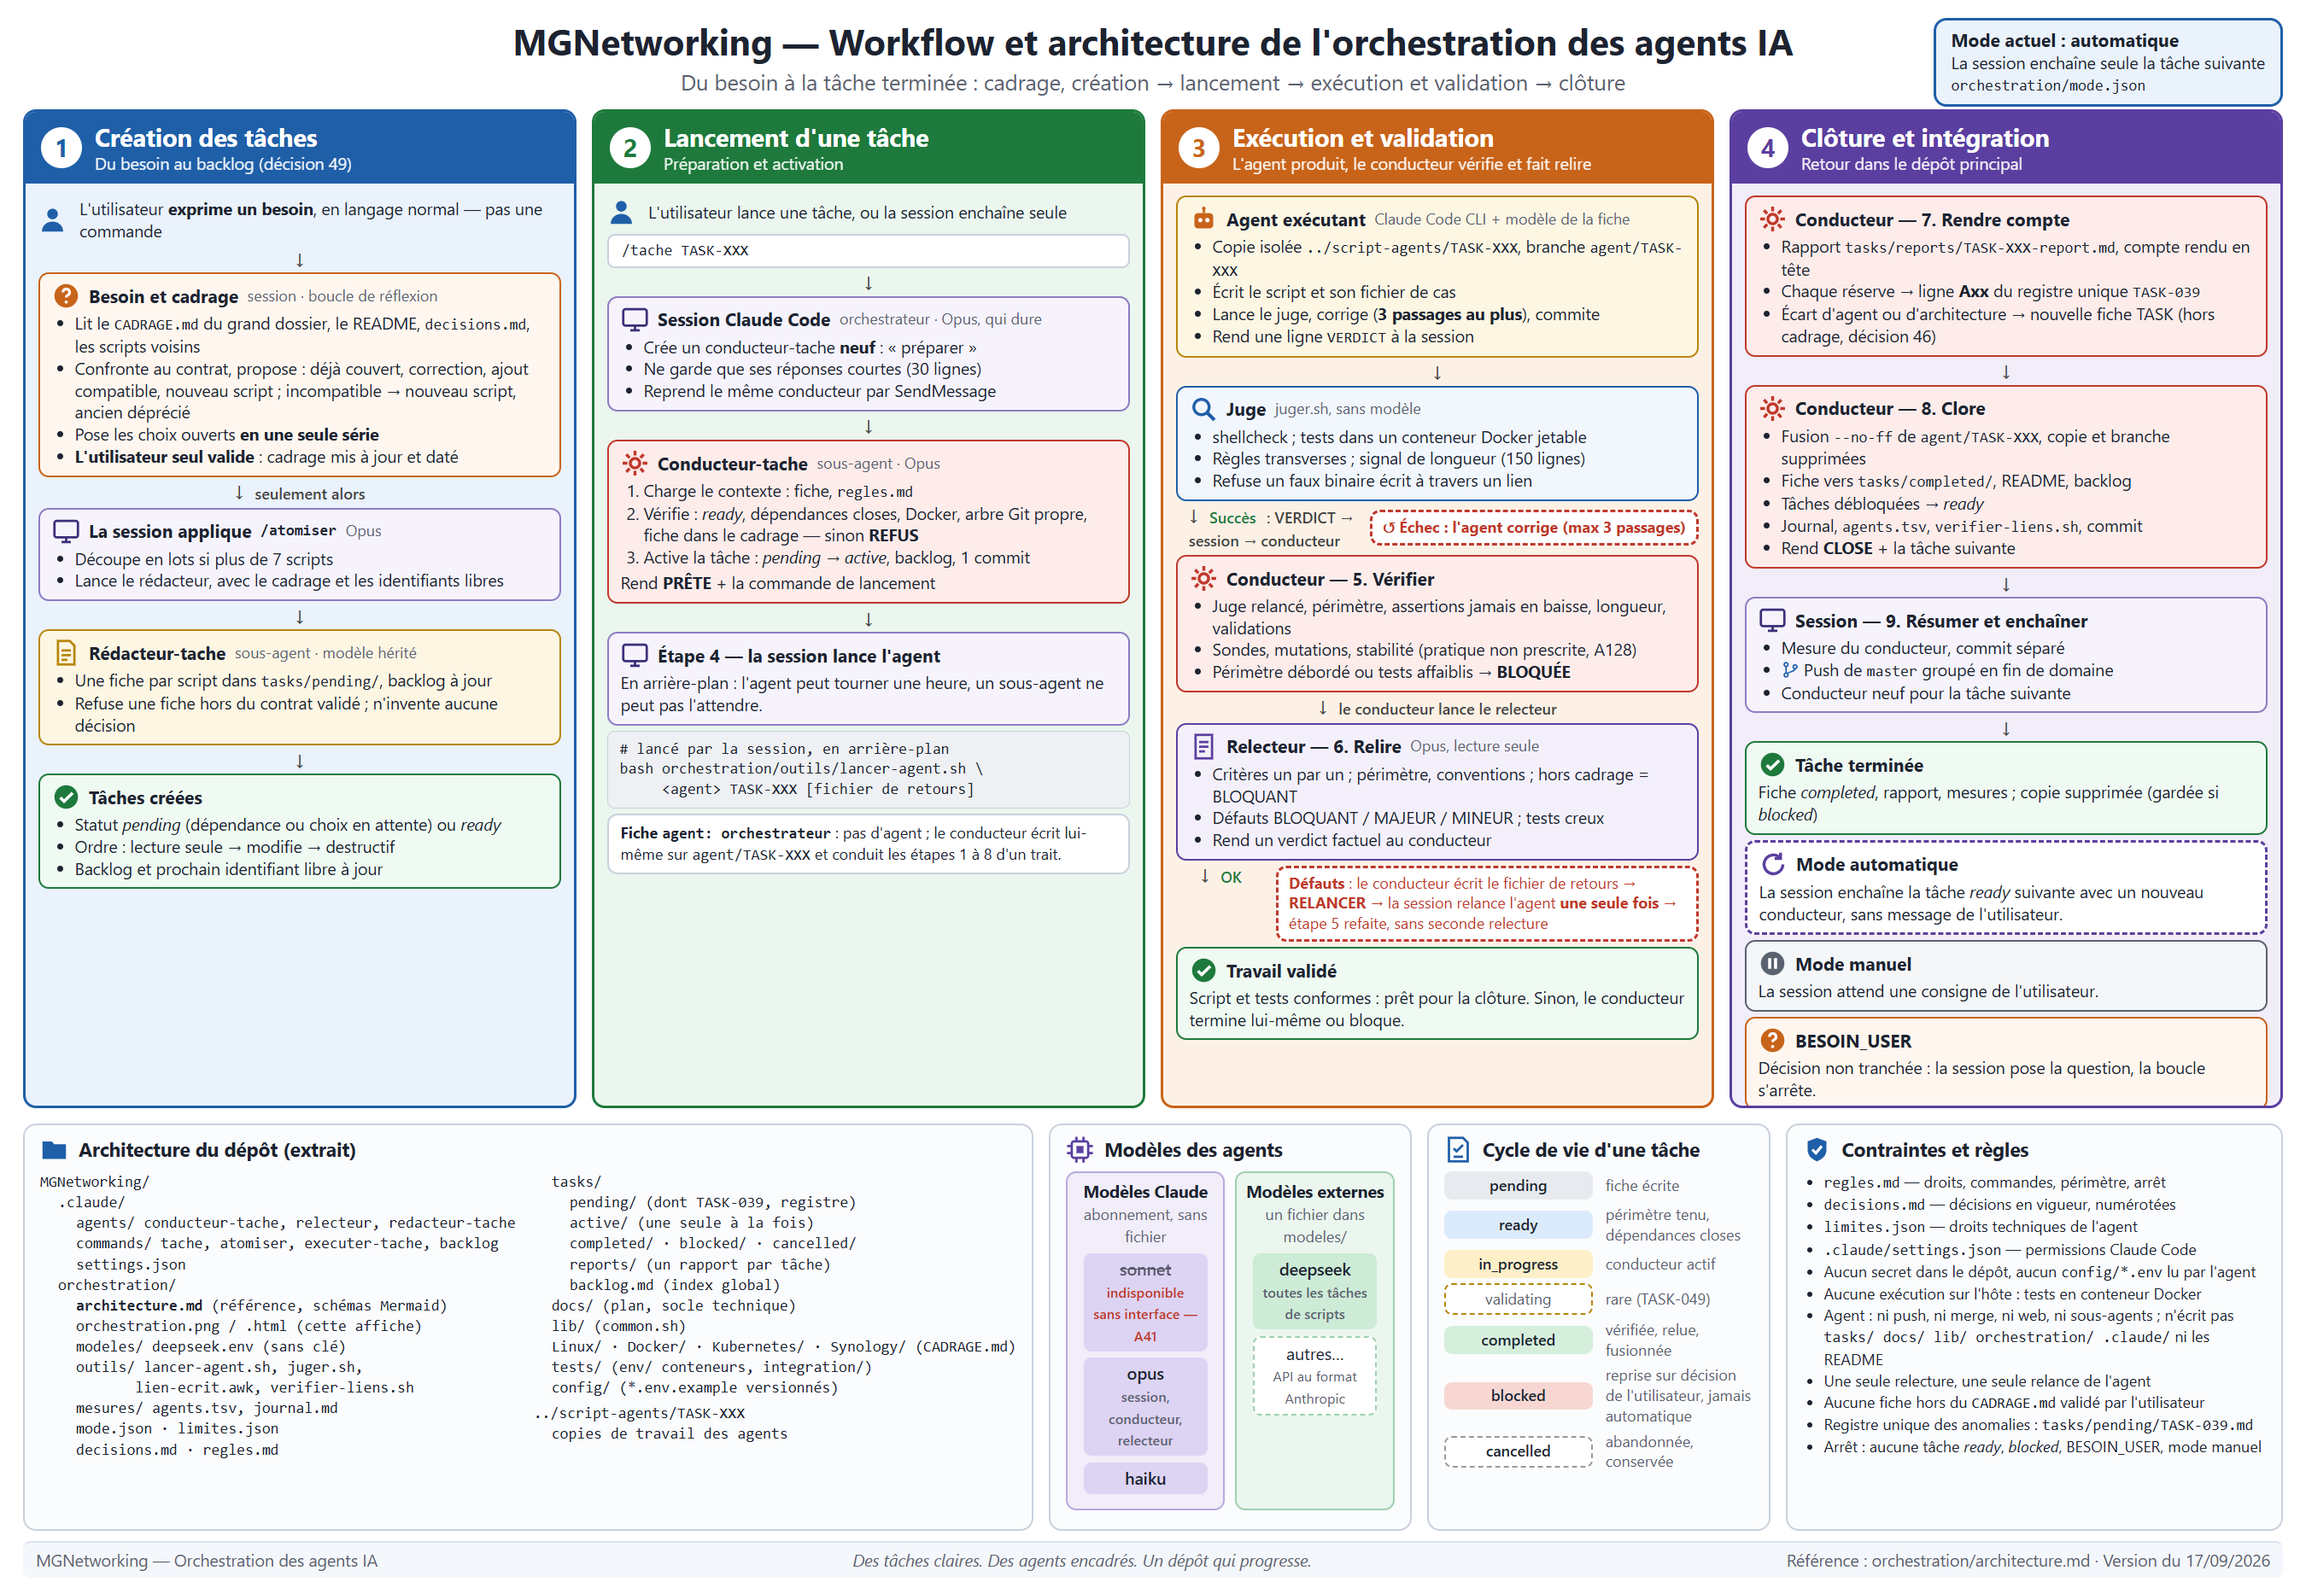
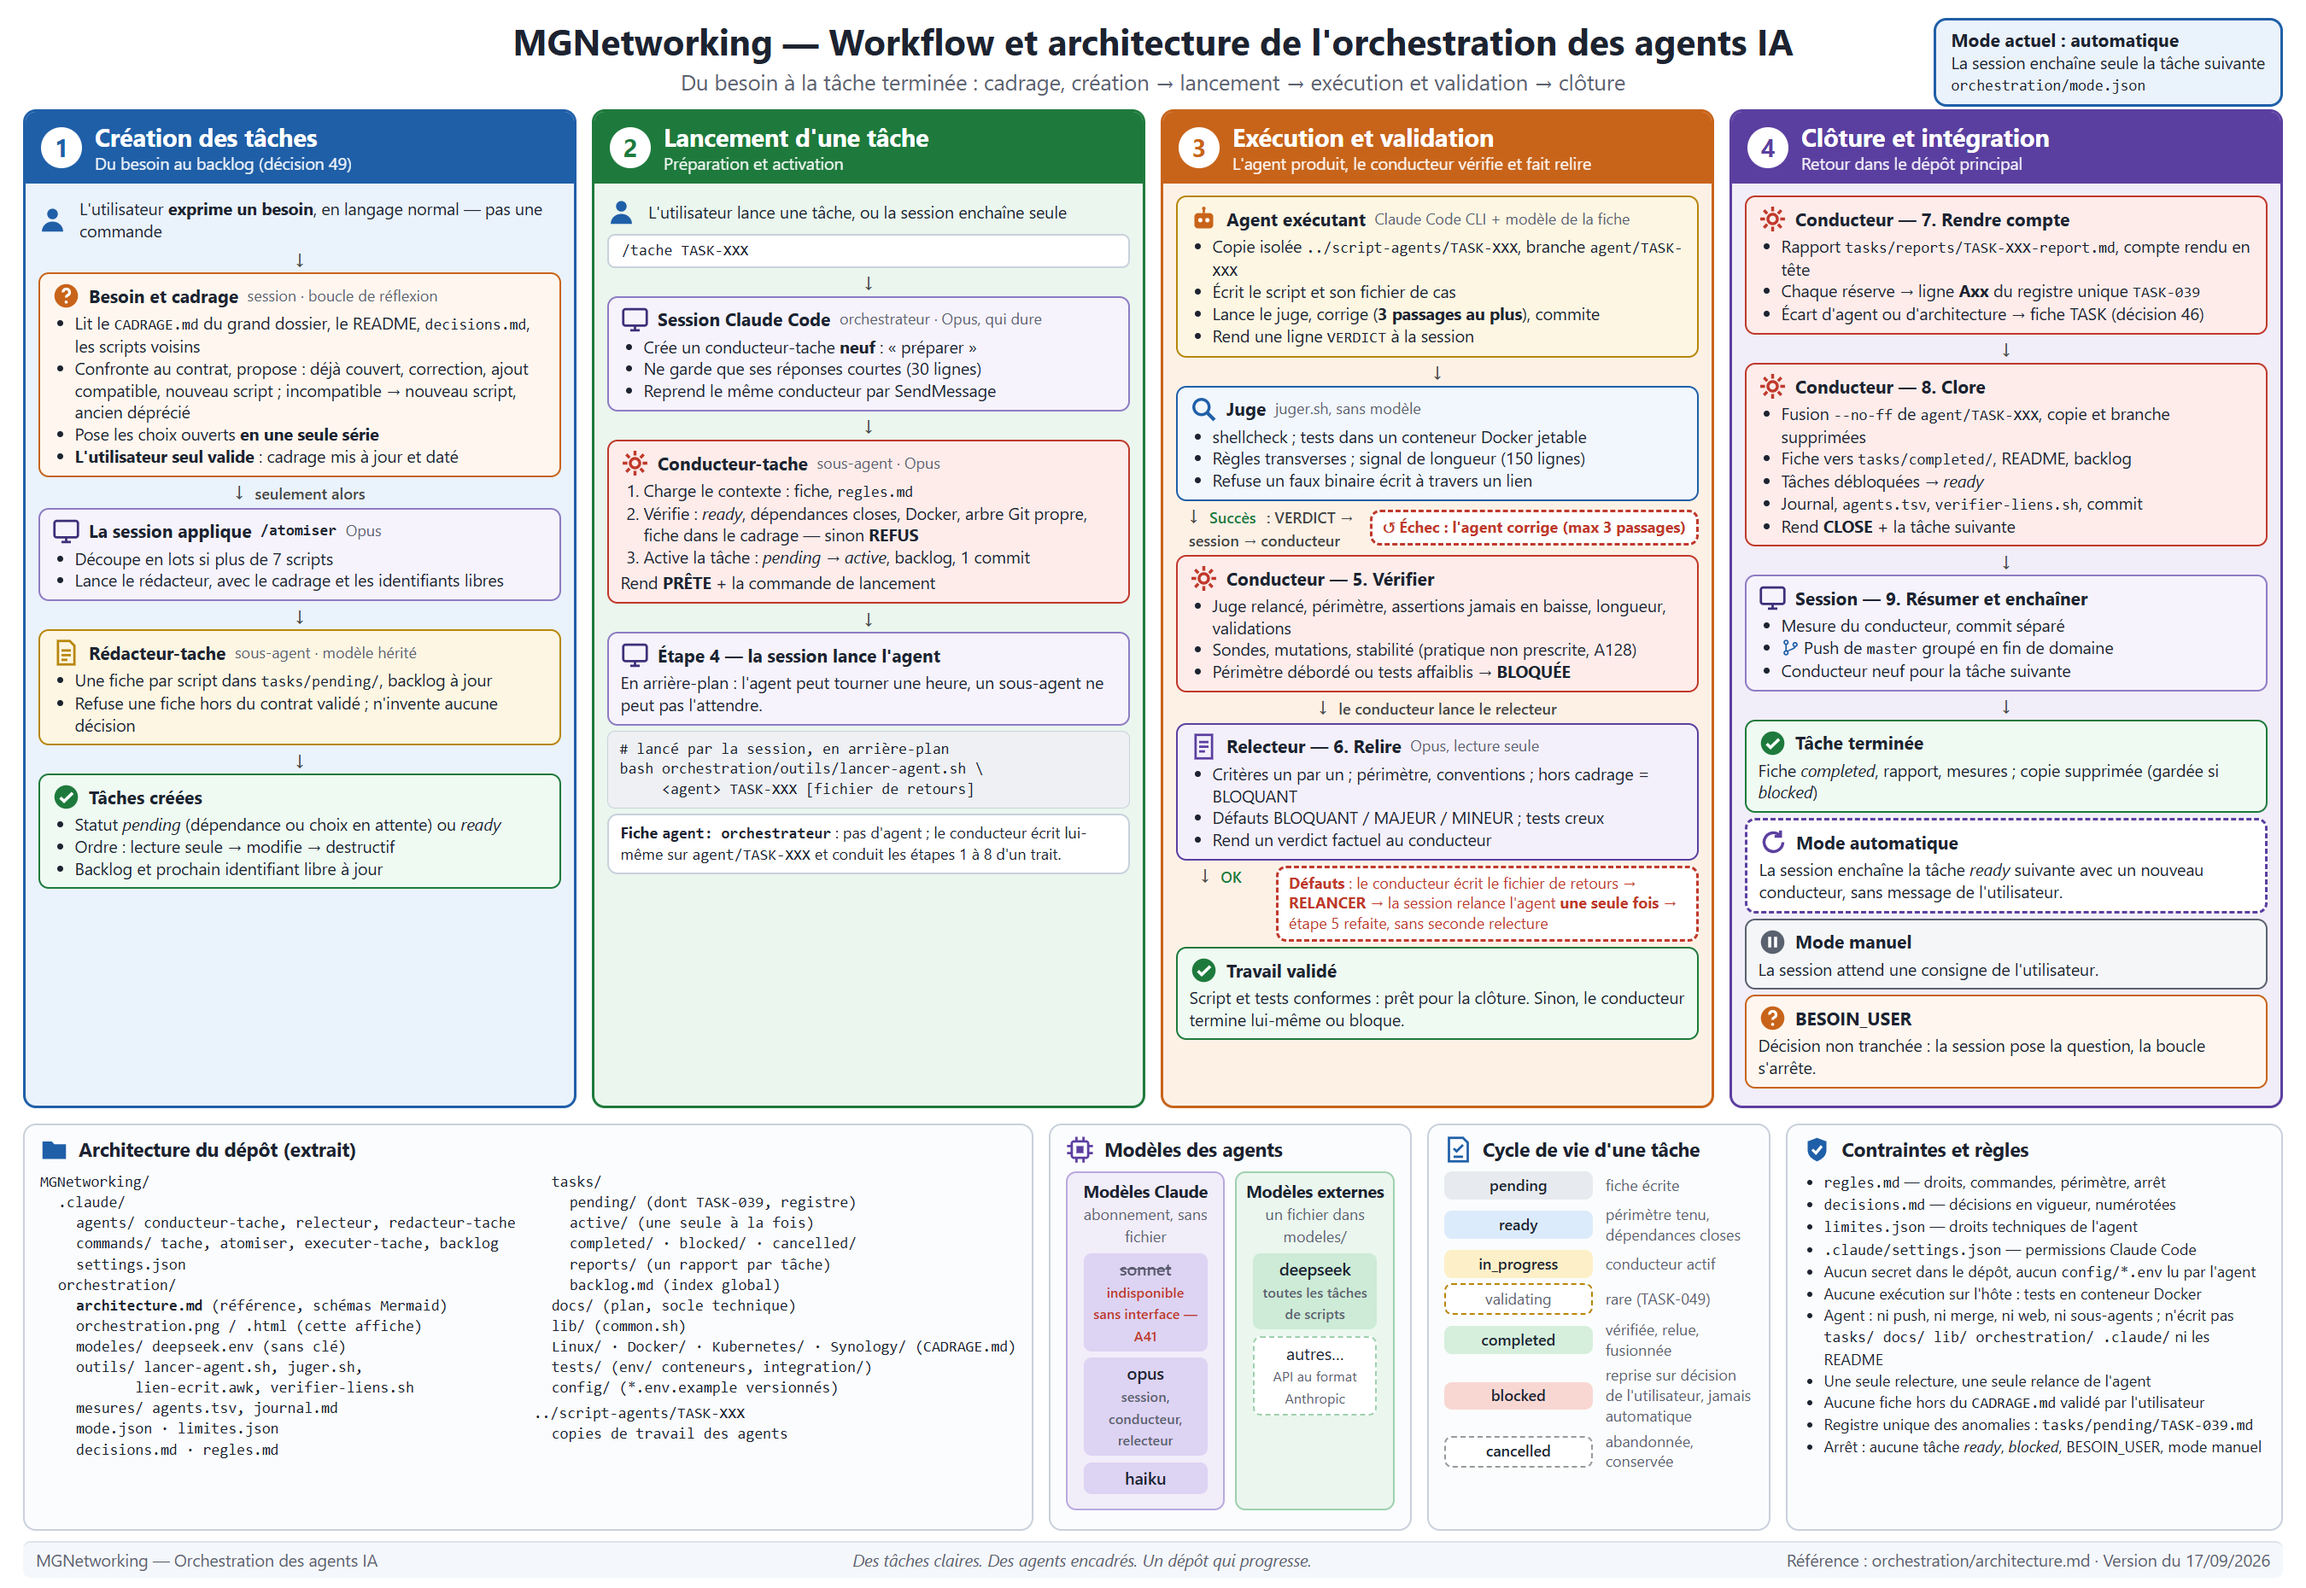
fix: affiche, colonne 4 sans débordement (TASK-073)
Tâche : TASK-073

Changed region(s): [[0.7467, 0.1871, 0.9956, 0.686]]

diff --git a/orchestration/orchestration.html b/orchestration/orchestration.html
@@ -264,7 +264,7 @@ bash orchestration/outils/lancer-agent.sh \
         <ul>
           <li>Rapport <span class="mono">tasks/reports/TASK-XXX-report.md</span>, compte rendu en tête</li>
           <li>Chaque réserve → ligne <b>Axx</b> du registre unique <span class="mono">TASK-039</span></li>
-          <li>Écart d'agent ou d'architecture → nouvelle fiche TASK (hors cadrage, décision 46)</li>
+          <li>Écart d'agent ou d'architecture → fiche TASK (décision 46)</li>
         </ul>
       </div>
       <div class="fleche">↓</div>
